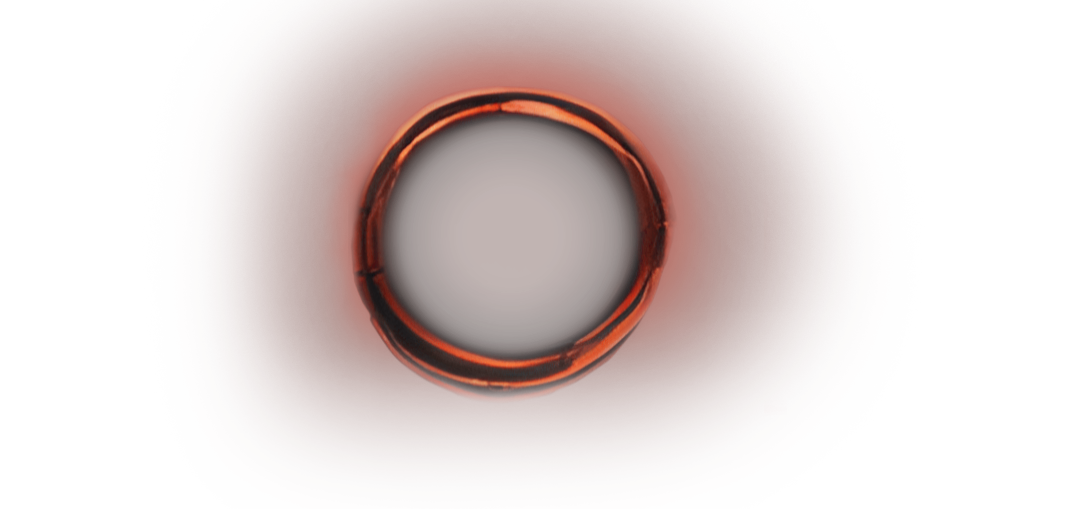
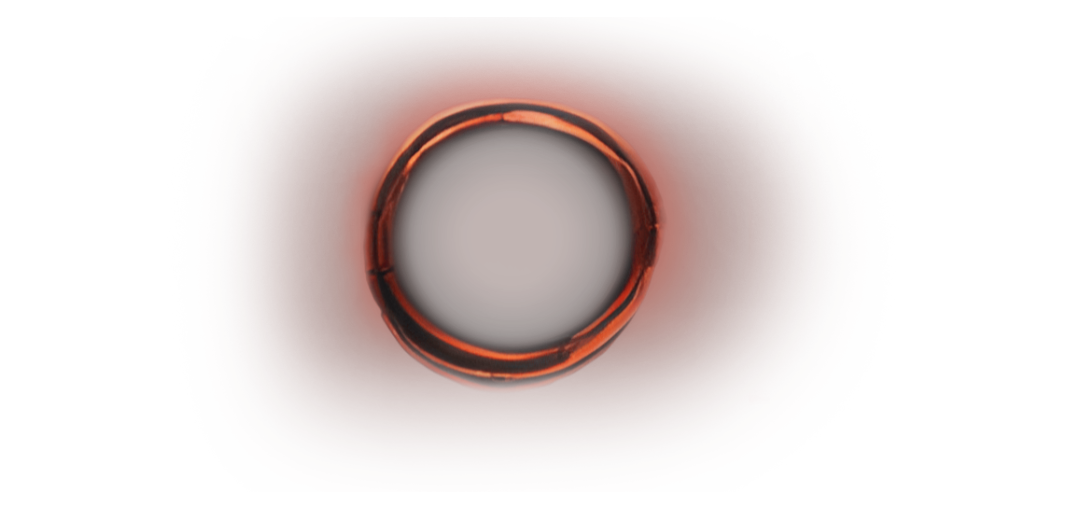
[KBW-95][UPDATE] the blincking animation

Changed region(s): [[0.2765, 0.0, 0.7067, 0.7957]]

diff --git a/src/components/header/LeftPlayerAvatar.tsx b/src/components/header/LeftPlayerAvatar.tsx
@@ -11,11 +11,11 @@ const LeftPlayerAvatar: React.FC<LeftPlayerAttributesInterface> = ({ player, isA
     <div className='flex flex-start h-[55%] w-[7%] ml-[4.5%] justify-center items-center'>
 
       {isAttacker &&
-        <div className="absolute h-[80%] w-[23%] z-20 bg-[url('/images/selected_player.png')] bg-cover animate-pulse" />
+        <div className="absolute h-[80%] w-[23%] z-20 bg-[url('/images/selected_player.png')] bg-cover blink" />
       }
       {player !== null ? (
         <img
-          src={player!.avatar}
+          src={player.avatar}
           alt='Player Avatar'
           className='h-full w-full object-cover z-0 rounded-[100%]'
         />

diff --git a/src/components/header/RightPlayerAvatar.tsx b/src/components/header/RightPlayerAvatar.tsx
@@ -12,7 +12,7 @@ const RightPlayerAvatar: React.FC<RightPlayerAvatarInterface> = ({ player, isAtt
     <div className='flex flex-start h-[55%] w-[7%] mr-[4.5%] justify-center items-center'>
 
       {isAttacker &&
-        <div className="absolute h-[80%] w-[23%] z-20 bg-[url('/images/selected_player.png')] bg-cover animate-pulse" />
+        <div className="absolute h-[80%] w-[23%] z-20 bg-[url('/images/selected_player.png')] bg-cover blink" />
       }
       {player !== null ? (
         <img

diff --git a/src/App.css b/src/App.css
@@ -47,3 +47,16 @@
 * {
   font-family: 'kaotika';
 }
+
+.blink {
+  animation: blink 2s infinite, pulse 2s infinite;
+}
+
+@keyframes blink {
+  0%, 100% {
+    opacity: 1;
+  }
+  50% {
+    opacity: 0.6;
+  }
+}
